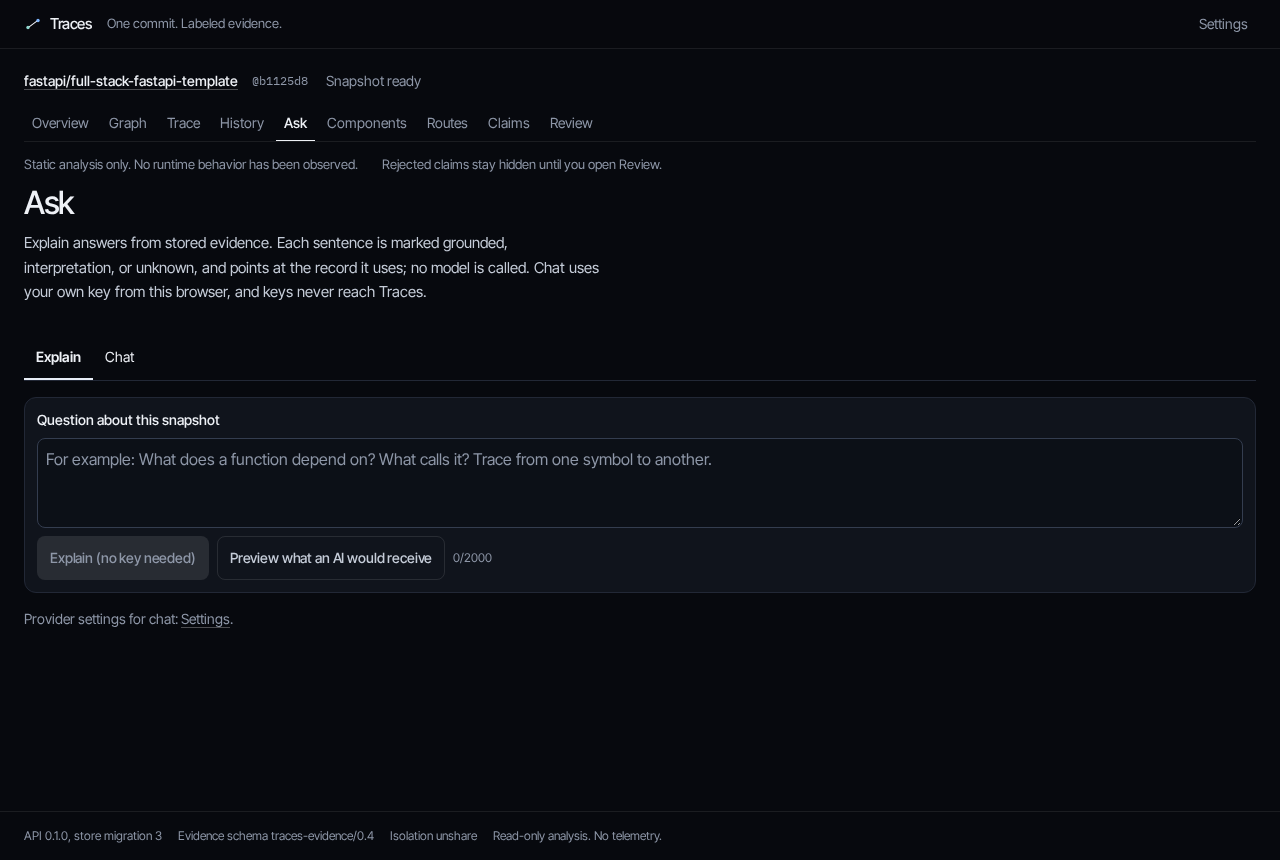
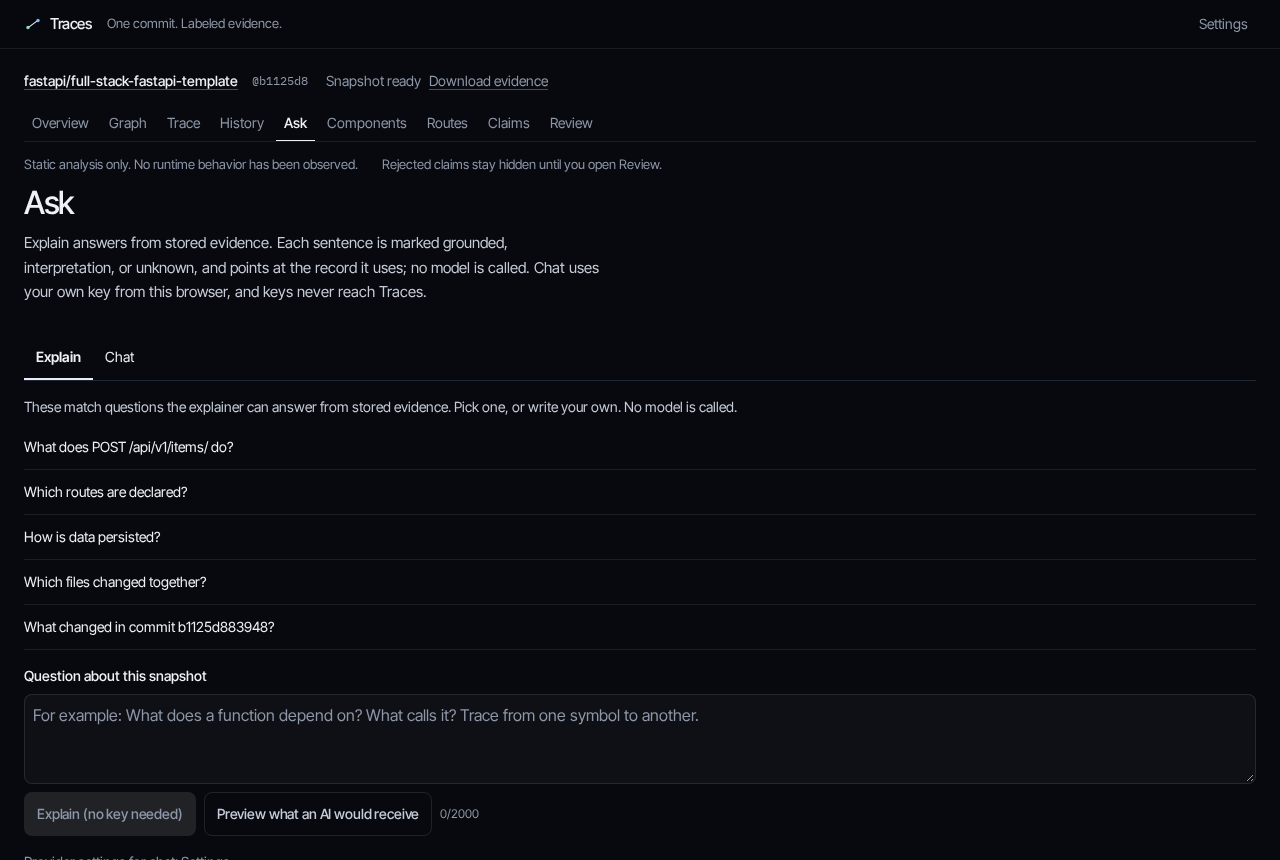
Make the first path something a person can finish.
Adding a repository opens it. A ready snapshot is the thing to open, and indexing is the step when none is ready. Ask lists questions the explainer can route, including one stored route. A route can be asked about or traced from its handler. The snapshot can be downloaded as the stored JSONL.

diff --git a/web/src/features/repos/RepoPage.tsx b/web/src/features/repos/RepoPage.tsx
@@ -4,7 +4,7 @@ import { Link, useNavigate, useParams } from "react-router-dom";
 import { api } from "../../api/client";
 import { useHead, useRepo, useSnapshots } from "../../api/queries";
 import { snapshotBase } from "../../app/nav";
-import { Button, Card, Empty, ErrorState, Loading, PageHeader } from "../../ui/States";
+import { Button, Empty, ErrorState, Loading, PageHeader } from "../../ui/States";
 
 function HeadStatus({ repoId }: { repoId: string }) {
   const head = useHead(repoId);
@@ -70,17 +70,58 @@ export function RepoPage() {
         </PageHeader>
       )}
 
-      <div className="grid gap-4">
-        <Card>
-          <h2 className="mb-2 font-semibold">Freshness</h2>
-          <HeadStatus repoId={repoId} />
-        </Card>
+      <div className="grid gap-8">
+        <section aria-labelledby="snap-h">
+          <h2 id="snap-h" className="text-sm font-medium tracking-[-0.02em] text-ink-2">
+            Snapshots
+          </h2>
+          <p className="mt-1 max-w-xl text-sm text-ink-2">A snapshot is this repository at one commit. Open a ready one to see the architecture, follow a path, and ask from the stored evidence.</p>
+          {snaps.isPending ? (
+            <Loading label="Loading snapshots" />
+          ) : snaps.isError ? (
+            <ErrorState error={snaps.error} what="Snapshots" />
+          ) : snaps.data.length === 0 ? (
+            <Empty title="No snapshots yet">Index the repository to create one. Indexing does not run the repository's own code.</Empty>
+          ) : (
+            <ul className="mt-2" data-testid="snapshot-list">
+              {snaps.data.map((s) => {
+                const by = (s.stats as { by_status?: Record<string, number> }).by_status;
+                const records = by ? Object.values(by).reduce((a, b) => a + b, 0) : null;
+                return (
+                  <li key={s.id} className="border-b border-white/8">
+                    <Link to={snapshotBase(repoId, s.sha)} className="flex flex-col py-3.5 text-ink no-underline hover:no-underline">
+                      <span className="flex items-baseline justify-between gap-3">
+                        <span className="font-mono text-sm">@{s.sha.slice(0, 12)}</span>
+                        <span className="text-[13px] text-muted">{s.state === "ready" ? "Open" : s.state}</span>
+                      </span>
+                      <span className="mt-1 text-[13px] text-muted">
+                        {s.state}
+                        {" · "}
+                        {s.evidence_schema}
+                        {records !== null ? ` · ${records.toLocaleString("en-US")} records` : ""}
+                      </span>
+                    </Link>
+                  </li>
+                );
+              })}
+            </ul>
+          )}
+        </section>
 
-        <Card>
-          <h2 className="mb-2 font-semibold">Index</h2>
-          <p className="text-sm text-ink-2">Indexing fetches the repository at a pinned commit and runs the extractor and validators in an isolated sandbox. The repository's own code is never run.</p>
+        <section aria-labelledby="index-h">
+          <h2 id="index-h" className="text-sm font-medium tracking-[-0.02em] text-ink-2">
+            Index
+          </h2>
+          <p className="mt-1 max-w-xl text-sm text-ink-2">
+            {snaps.data?.some((s) => s.state === "ready")
+              ? "Index the latest commit when the default branch has moved. A snapshot you already have stays pinned to its commit."
+              : "Indexing reads the repository at one commit and stores the evidence. The repository's own code is never run."}
+          </p>
           <div className="mt-3">
-            <Button variant="primary" onClick={() => start.mutate()} disabled={start.isPending}>
+            <HeadStatus repoId={repoId} />
+          </div>
+          <div className="mt-3">
+            <Button variant={snaps.data?.some((s) => s.state === "ready") ? "secondary" : "primary"} onClick={() => start.mutate()} disabled={start.isPending}>
               {start.isPending ? "Starting" : "Index latest commit"}
             </Button>
           </div>
@@ -89,43 +130,10 @@ export function RepoPage() {
               <ErrorState error={start.error} what="Indexing" />
             </div>
           ) : null}
-          <OpenJob />
-        </Card>
-
-        <section aria-labelledby="snap-h">
-          <h2 id="snap-h" className="mb-2 text-lg font-semibold">
-            Snapshots
-          </h2>
-          {snaps.isPending ? (
-            <Loading label="Loading snapshots" />
-          ) : snaps.isError ? (
-            <ErrorState error={snaps.error} what="Snapshots" />
-          ) : snaps.data.length === 0 ? (
-            <Empty title="No snapshots yet">Index the repository to create one.</Empty>
-          ) : (
-            <ul className="mt-1" data-testid="snapshot-list">
-              {snaps.data.map((s) => {
-                const by = (s.stats as { by_status?: Record<string, number> }).by_status;
-                return (
-                  <li key={s.id} className="border-b border-white/8">
-                    <Link
-                      to={snapshotBase(repoId, s.sha)}
-                      className="flex flex-col py-3.5 text-ink no-underline hover:no-underline"
-                    >
-                      <span className="flex items-baseline justify-between gap-3">
-                        <span className="font-mono text-sm">@{s.sha.slice(0, 12)}</span>
-                        <span className="text-[11px] font-medium uppercase tracking-[0.12em] text-muted">{s.state}</span>
-                      </span>
-                      <span className="mt-1 text-[13px] text-muted">
-                        {s.evidence_schema}
-                        {by ? ` · ${Object.values(by).reduce((a, b) => a + b, 0).toLocaleString("en-US")} records` : ""}
-                      </span>
-                    </Link>
-                  </li>
-                );
-              })}
-            </ul>
-          )}
+          <details className="mt-4">
+            <summary className="cursor-pointer text-sm text-muted">Already have a job id?</summary>
+            <OpenJob />
+          </details>
         </section>
       </div>
     </main>

diff --git a/web/src/features/ask/AskPage.tsx b/web/src/features/ask/AskPage.tsx
@@ -1,12 +1,14 @@
-import { useMutation } from "@tanstack/react-query";
+import { useMutation, useQuery } from "@tanstack/react-query";
 import { useEffect, useId, useRef, useState, type FormEvent } from "react";
 import * as Tabs from "@radix-ui/react-tabs";
 import { Link, useParams, useSearchParams } from "react-router-dom";
 import { api } from "../../api/client";
+import { keys } from "../../api/queries";
 import { snapshotBase } from "../../app/nav";
 import { Button, ErrorState, PageHeader } from "../../ui/States";
 import { ChatPanel } from "../chat/ChatPanel";
 import { ExplainView } from "./ExplainView";
+import { starterQuestions } from "./starters";
 
 const TAB = "tap shrink-0 border-b-2 border-transparent px-3 text-sm data-[state=active]:border-accent data-[state=active]:font-semibold";
 
@@ -52,6 +54,8 @@ function ExplainPanel({ repoId, sha }: { repoId: string; sha: string }) {
   const seeded = sp.get("q") ?? "";
   const [question, setQuestion] = useState(seeded);
   const qid = useId();
+  const routes = useQuery({ queryKey: keys.view("routes", repoId, sha), queryFn: () => api.routes(repoId, sha) });
+  const questions = starterQuestions(sha, routes.data ?? []);
   const ask = useMutation({
     mutationFn: (v: { question: string; mode: "no_llm" | "prepare_bundle" }) => api.explain(repoId, sha, { question: v.question, mode: v.mode, focus_claim_ids: [] }),
   });
@@ -61,6 +65,10 @@ function ExplainPanel({ repoId, sha }: { repoId: string; sha: string }) {
     ran.current = true;
     ask.mutate({ question: seeded.trim(), mode: "no_llm" });
   }, [seeded, ask]);
+  const run = (q: string) => {
+    setQuestion(q);
+    ask.mutate({ question: q, mode: "no_llm" });
+  };
   const submit = (e: FormEvent) => {
     e.preventDefault();
     if (question.trim()) ask.mutate({ question: question.trim(), mode: "no_llm" });
@@ -68,11 +76,23 @@ function ExplainPanel({ repoId, sha }: { repoId: string; sha: string }) {
   const preview = () => question.trim() && ask.mutate({ question: question.trim(), mode: "prepare_bundle" });
   return (
     <>
-      <form onSubmit={submit} className="mb-4 flex flex-col gap-2 rounded-lg border border-line bg-surface p-3">
+      <section className="mb-4" aria-label="Questions this snapshot can answer">
+        <p className="text-sm text-ink-2">These match questions the explainer can answer from stored evidence. Pick one, or write your own. No model is called.</p>
+        <ul className="mt-2 flex flex-col">
+          {questions.map((q) => (
+            <li key={q} className="border-b border-white/8">
+              <button type="button" onClick={() => run(q)} disabled={ask.isPending} className="min-h-11 w-full py-2.5 text-left text-sm text-ink disabled:text-muted">
+                {q}
+              </button>
+            </li>
+          ))}
+        </ul>
+      </section>
+      <form onSubmit={submit} className="mb-4 flex flex-col gap-2" aria-label="Ask a question">
         <label htmlFor={qid} className="text-sm font-medium">
           Question about this snapshot
         </label>
-        <textarea id={qid} value={question} maxLength={2000} rows={3} onChange={(e) => setQuestion(e.target.value)} className="rounded-md border border-line-strong p-2" placeholder="For example: What does a function depend on? What calls it? Trace from one symbol to another." />
+        <textarea id={qid} value={question} maxLength={2000} rows={3} onChange={(e) => setQuestion(e.target.value)} className="rounded-md border border-white/10 bg-white/[0.03] p-2" placeholder="For example: What does a function depend on? What calls it? Trace from one symbol to another." />
         <div className="flex flex-wrap items-center gap-2">
           <Button type="submit" variant="primary" disabled={!question.trim() || ask.isPending}>
             {ask.isPending ? "Asking" : "Explain (no key needed)"}

diff --git a/web/src/features/repos/Home.tsx b/web/src/features/repos/Home.tsx
@@ -1,6 +1,6 @@
 import { useMutation, useQueryClient } from "@tanstack/react-query";
 import { useId, useState, type FormEvent } from "react";
-import { Link } from "react-router-dom";
+import { Link, useNavigate } from "react-router-dom";
 import { ApiError, api } from "../../api/client";
 import { keys, useRepos } from "../../api/queries";
 import { Button, Empty, ErrorState, Loading, PageHeader } from "../../ui/States";
@@ -21,12 +21,14 @@ export function Home() {
   const inputId = useId();
   const hintId = useId();
   const errId = useId();
+  const nav = useNavigate();
   const register = useMutation({
     mutationFn: (u: string) => api.registerRepo(u),
-    onSuccess: () => {
+    onSuccess: (repo) => {
       setUrl("");
       setTouched(false);
       void qc.invalidateQueries({ queryKey: keys.repos });
+      nav(`/r/${encodeURIComponent(repo.id)}`);
     },
   });
   const trimmed = url.trim();
@@ -41,7 +43,7 @@ export function Home() {
 
   return (
     <main id="main" tabIndex={-1} className="mx-auto max-w-2xl px-5 py-14 focus:outline-none sm:py-20">
-      <PageHeader title="Repositories">Public repositories, one commit at a time. Every view is backed by stored evidence. A gap stays a gap.</PageHeader>
+      <PageHeader title="Repositories">Add a public GitHub repository. You land on it next. Indexing is a separate step, and nothing is fetched until you start it.</PageHeader>
 
       <dl className="grid gap-x-8 gap-y-5 sm:grid-cols-3" aria-label="How Traces treats a repository">
         {NOTES.map((n) => (

diff --git a/web/src/features/inventory/RoutesPage.tsx b/web/src/features/inventory/RoutesPage.tsx
@@ -96,11 +96,27 @@ export function RoutesView({ items, base, onEvidence, hidden }: { items: RouteIt
                   </Link>
                 </p>
                 {r.claim_id ? (
-                  <div className="mt-2">
+                  <div className="mt-2 flex flex-wrap items-center gap-x-4 gap-y-1">
                     <Button onClick={() => onEvidence(r.claim_id!)} aria-label={`Open evidence for ${r.method === "UNKNOWN" ? "" : `${r.method} `}${r.path}`}>
                       Open evidence
                     </Button>
+                    {r.method !== "UNKNOWN" && r.method !== "USE" && r.path.startsWith("/") ? (
+                      <Link to={`${base}/ask?q=${encodeURIComponent(`What does ${r.method} ${r.path} do?`)}`} className="text-sm">
+                        Ask about this route
+                      </Link>
+                    ) : null}
+                    {r.handler_symbol ? (
+                      <Link to={`${base}/trace?from=${encodeURIComponent(r.handler_symbol)}`} className="text-sm">
+                        Trace the handler
+                      </Link>
+                    ) : null}
                   </div>
+                ) : r.handler_symbol ? (
+                  <p className="mt-2">
+                    <Link to={`${base}/trace?from=${encodeURIComponent(r.handler_symbol)}`} className="text-sm">
+                      Trace the handler
+                    </Link>
+                  </p>
                 ) : null}
               </li>
             );

diff --git a/web/src/features/ask/starters.test.ts b/web/src/features/ask/starters.test.ts
@@ -1,0 +1,22 @@
+import { describe, expect, it } from "vitest";
+import { starterQuestions } from "./starters";
+
+describe("starterQuestions", () => {
+  it("uses a stored route and skips mounts and unknown methods", () => {
+    const qs = starterQuestions("b1125d883948", [
+      { method: "USE", path: "/api" },
+      { method: "UNKNOWN", path: "/settings" },
+      { method: "POST", path: "/api/v1/items/" },
+    ]);
+    expect(qs[0]).toBe("What does POST /api/v1/items/ do?");
+    expect(qs).toContain("Which routes are declared?");
+    expect(qs).toContain("How is data persisted?");
+    expect(qs).toContain("Which files changed together?");
+    expect(qs).toContain("What changed in commit b1125d883948?");
+    expect(qs.join(" ")).not.toContain("USE");
+  });
+
+  it("still offers the questions that do not need a route", () => {
+    expect(starterQuestions("abc", [])).toEqual(["Which routes are declared?", "How is data persisted?", "Which files changed together?"]);
+  });
+});

diff --git a/web/src/app/SnapshotLayout.tsx b/web/src/app/SnapshotLayout.tsx
@@ -106,6 +106,10 @@ export function SnapshotLayout() {
         </Link>
         <ShaChip sha={sha} />
         {snap.data ? <span className="text-muted">Snapshot {snap.data.state}</span> : null}
+        <a href={`/api/v1/repos/${encodeURIComponent(repoId)}/snapshots/${encodeURIComponent(sha)}/export`} className="inline-flex min-h-8 items-center text-muted">
+          Download evidence
+          <span className="sr-only"> as one JSONL record per line for this snapshot</span>
+        </a>
         {snap.isError ? (
           <span className="text-rejected" role="status">
             {snap.error instanceof ApiError && snap.error.status === 404 ? "Snapshot not found" : "Snapshot details unavailable"}

diff --git a/web/src/features/ask/starters.ts b/web/src/features/ask/starters.ts
@@ -1,0 +1,12 @@
+/** Questions the no-key explainer can route. A route question is only offered for a stored method and path. */
+export function starterQuestions(sha: string, routes: readonly { method: string; path: string }[]): string[] {
+  const route = routes.find((r) => r.method !== "UNKNOWN" && r.method !== "USE" && r.path.startsWith("/"));
+  const hash = sha.slice(0, 12);
+  const base = [
+    "Which routes are declared?",
+    "How is data persisted?",
+    "Which files changed together?",
+    ...(hash.length >= 7 ? [`What changed in commit ${hash}?`] : []),
+  ];
+  return route ? [`What does ${route.method} ${route.path} do?`, ...base] : base;
+}

diff --git a/docs/acceptance/WALKTHROUGH.md b/docs/acceptance/WALKTHROUGH.md
@@ -10,7 +10,7 @@ tags: [acceptance, screenshots]
 
 These screens are the running app, talking to the local API and the indexed store. They are not mocks and not design comps. The previous screens of the same views are in [before/](before/).
 
-Start at the home page. Paste a public GitHub URL. Traces indexes that commit, then the snapshot opens. The two repositories in these shots were indexed that way:
+Start at the home page. Paste a public GitHub URL. That opens the repository. Index the commit, then open the ready snapshot. The two repositories in these shots were indexed that way:
 
 | Repository | URL | Commit |
 | --- | --- | --- |
@@ -30,7 +30,7 @@ Desktop shots are 1280×860. Phone shots are 390×844.
 5. **Trace.** On a wide screen the FastAPI template path is one horizontal flow, and the selected step opens underneath it. On a phone the same steps stack. A solid step is verified or observed. A dotted step is an inferred library call. A dashed step is a gap. The selected step is the panel: the items page renders AddItem, a gap stays where no edge reaches `form.handleSubmit`, two library steps stay inferred, the generated client matches `POST /api/v1/items/`, and `create_item` depends on `get_db`. The same symbols have a verified static persistence path (validate, stage, commit, reload). Nothing was executed, and no database was contacted. The rejected CRUD claim is not a step. [Desktop](trace-desktop.png) · [Phone](trace-phone.png)
 6. **Evidence.** The `contains` claim from `Serializer` to `__init__`, with the pinned source lines. [Desktop](evidence-desktop.png) · [Phone](evidence-phone.png)
 7. **History.** The timeline is a spine of commits, not a stack of cards and not a proof of architecture. Co-change is drawn as two paths that changed together. That is a Git pattern, not a call. Criteria stay one click away, printed as stored. [Desktop](history-desktop.png) · [Phone](history-phone.png)
-8. **Ask.** "What does Serializer depend on?" with no model and no key. The answer comes first. Each grounded sentence points at the file, and those files open on the graph. Interpretation and unknown stay marked. The category list stays closed until you open it. [Desktop](ask-desktop.png) · [Phone](ask-phone.png)
+8. **Ask.** The page lists questions this snapshot can answer, including one stored route when the inventory has one. You can still type your own. "What does Serializer depend on?" needs no model and no key. The answer comes first. Each grounded sentence points at the file, and those files open on the graph. Interpretation and unknown stay marked. The category list stays closed until you open it. [Desktop](ask-desktop.png) · [Phone](ask-phone.png)
 
 ## What this is not
 
